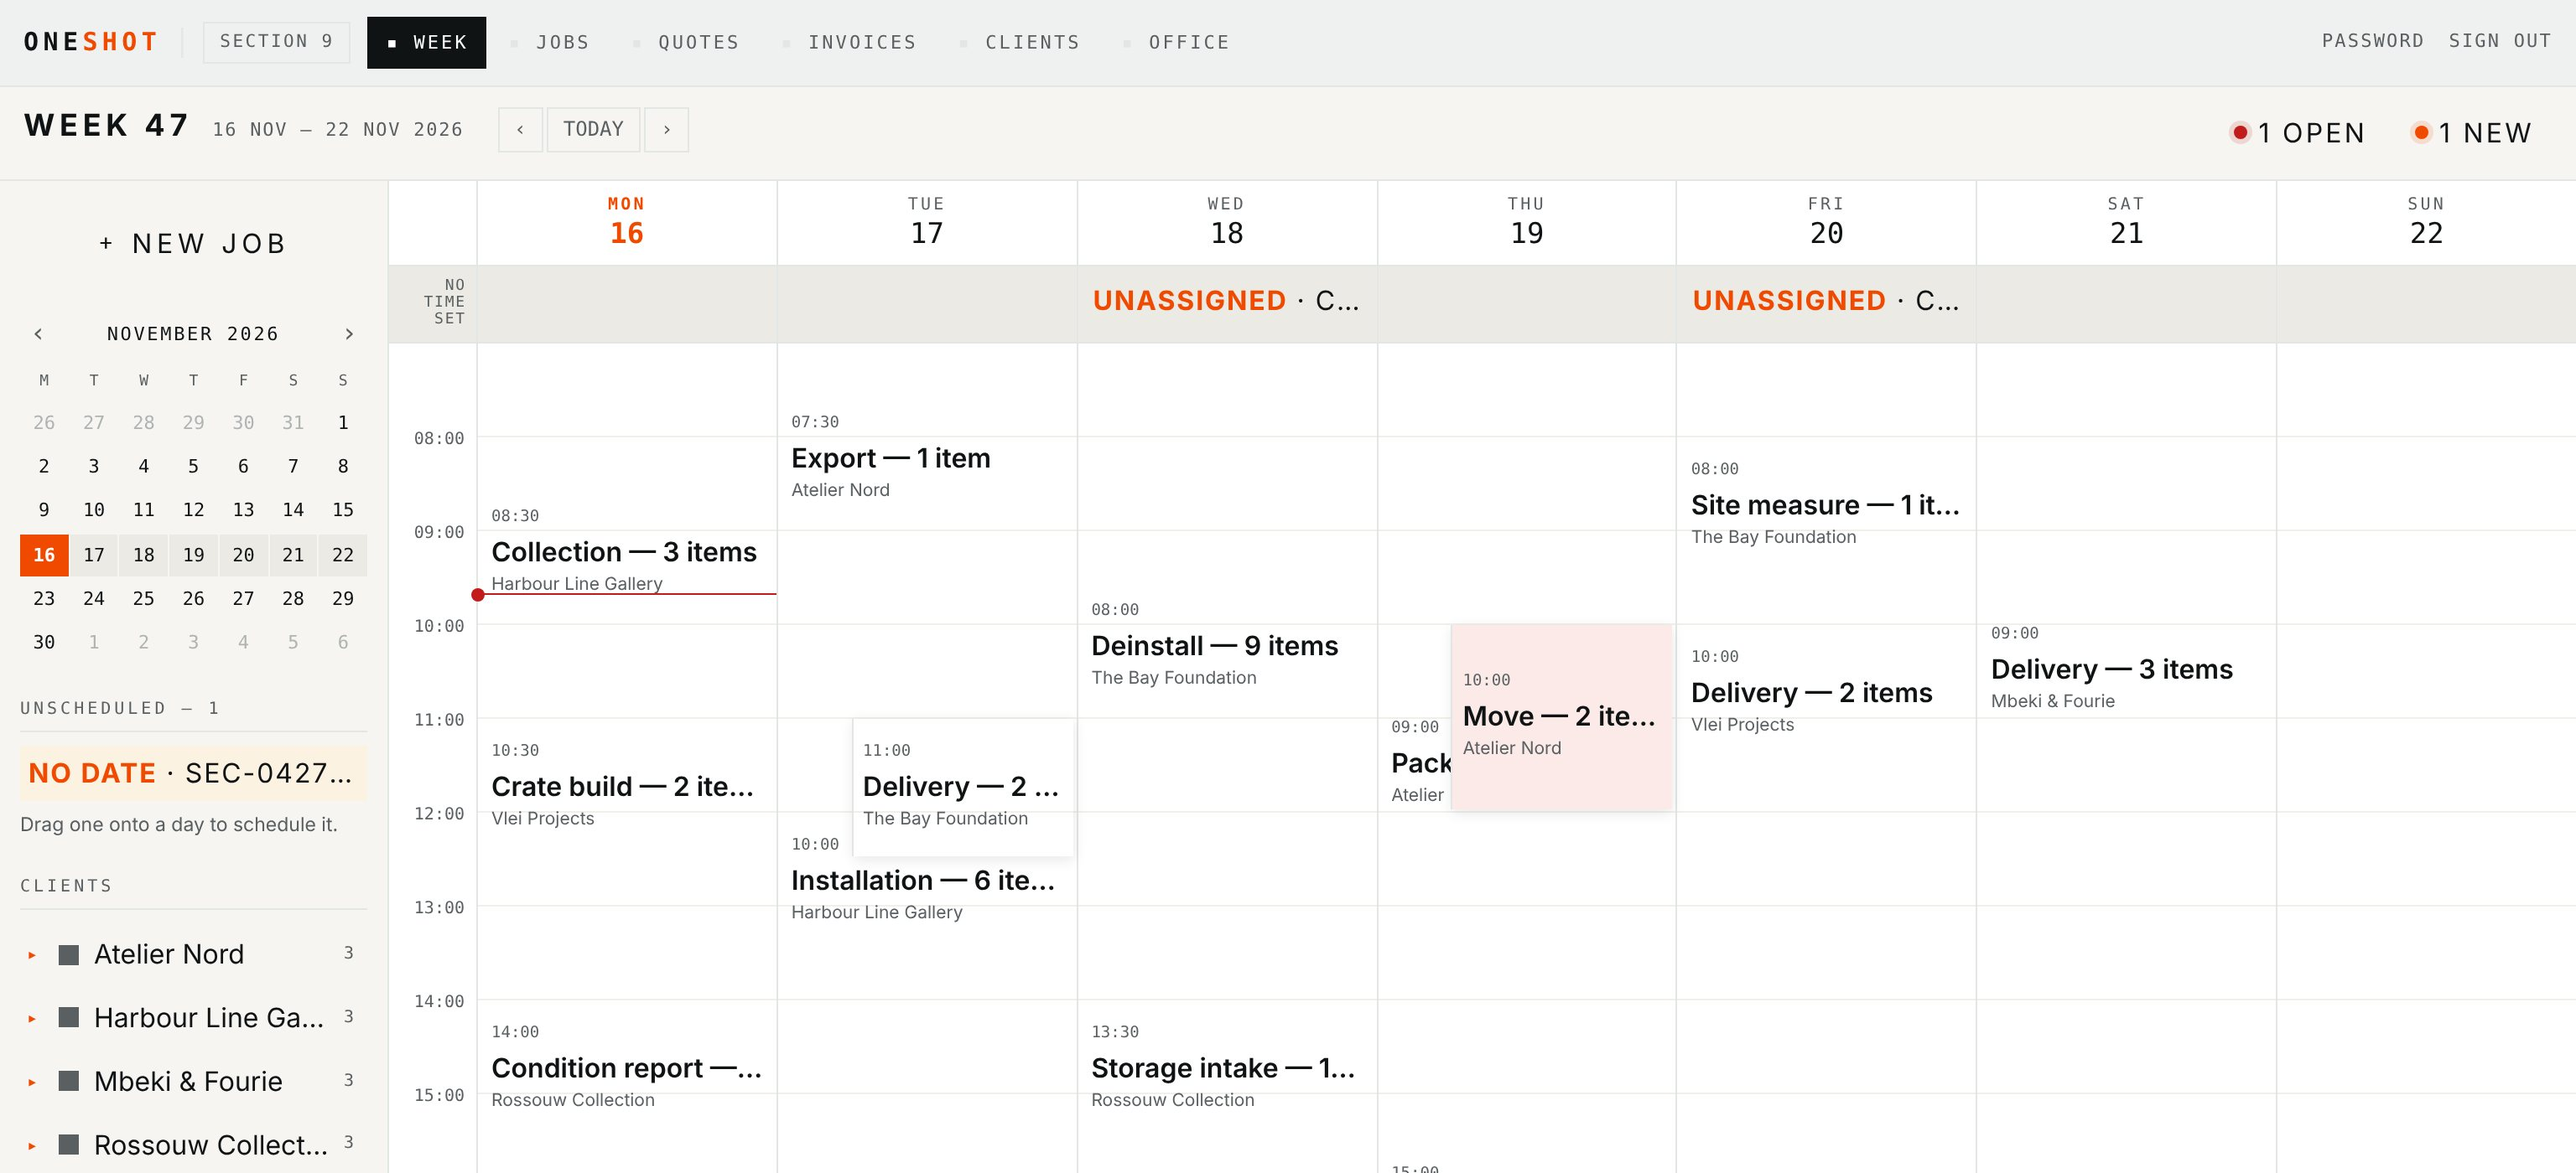
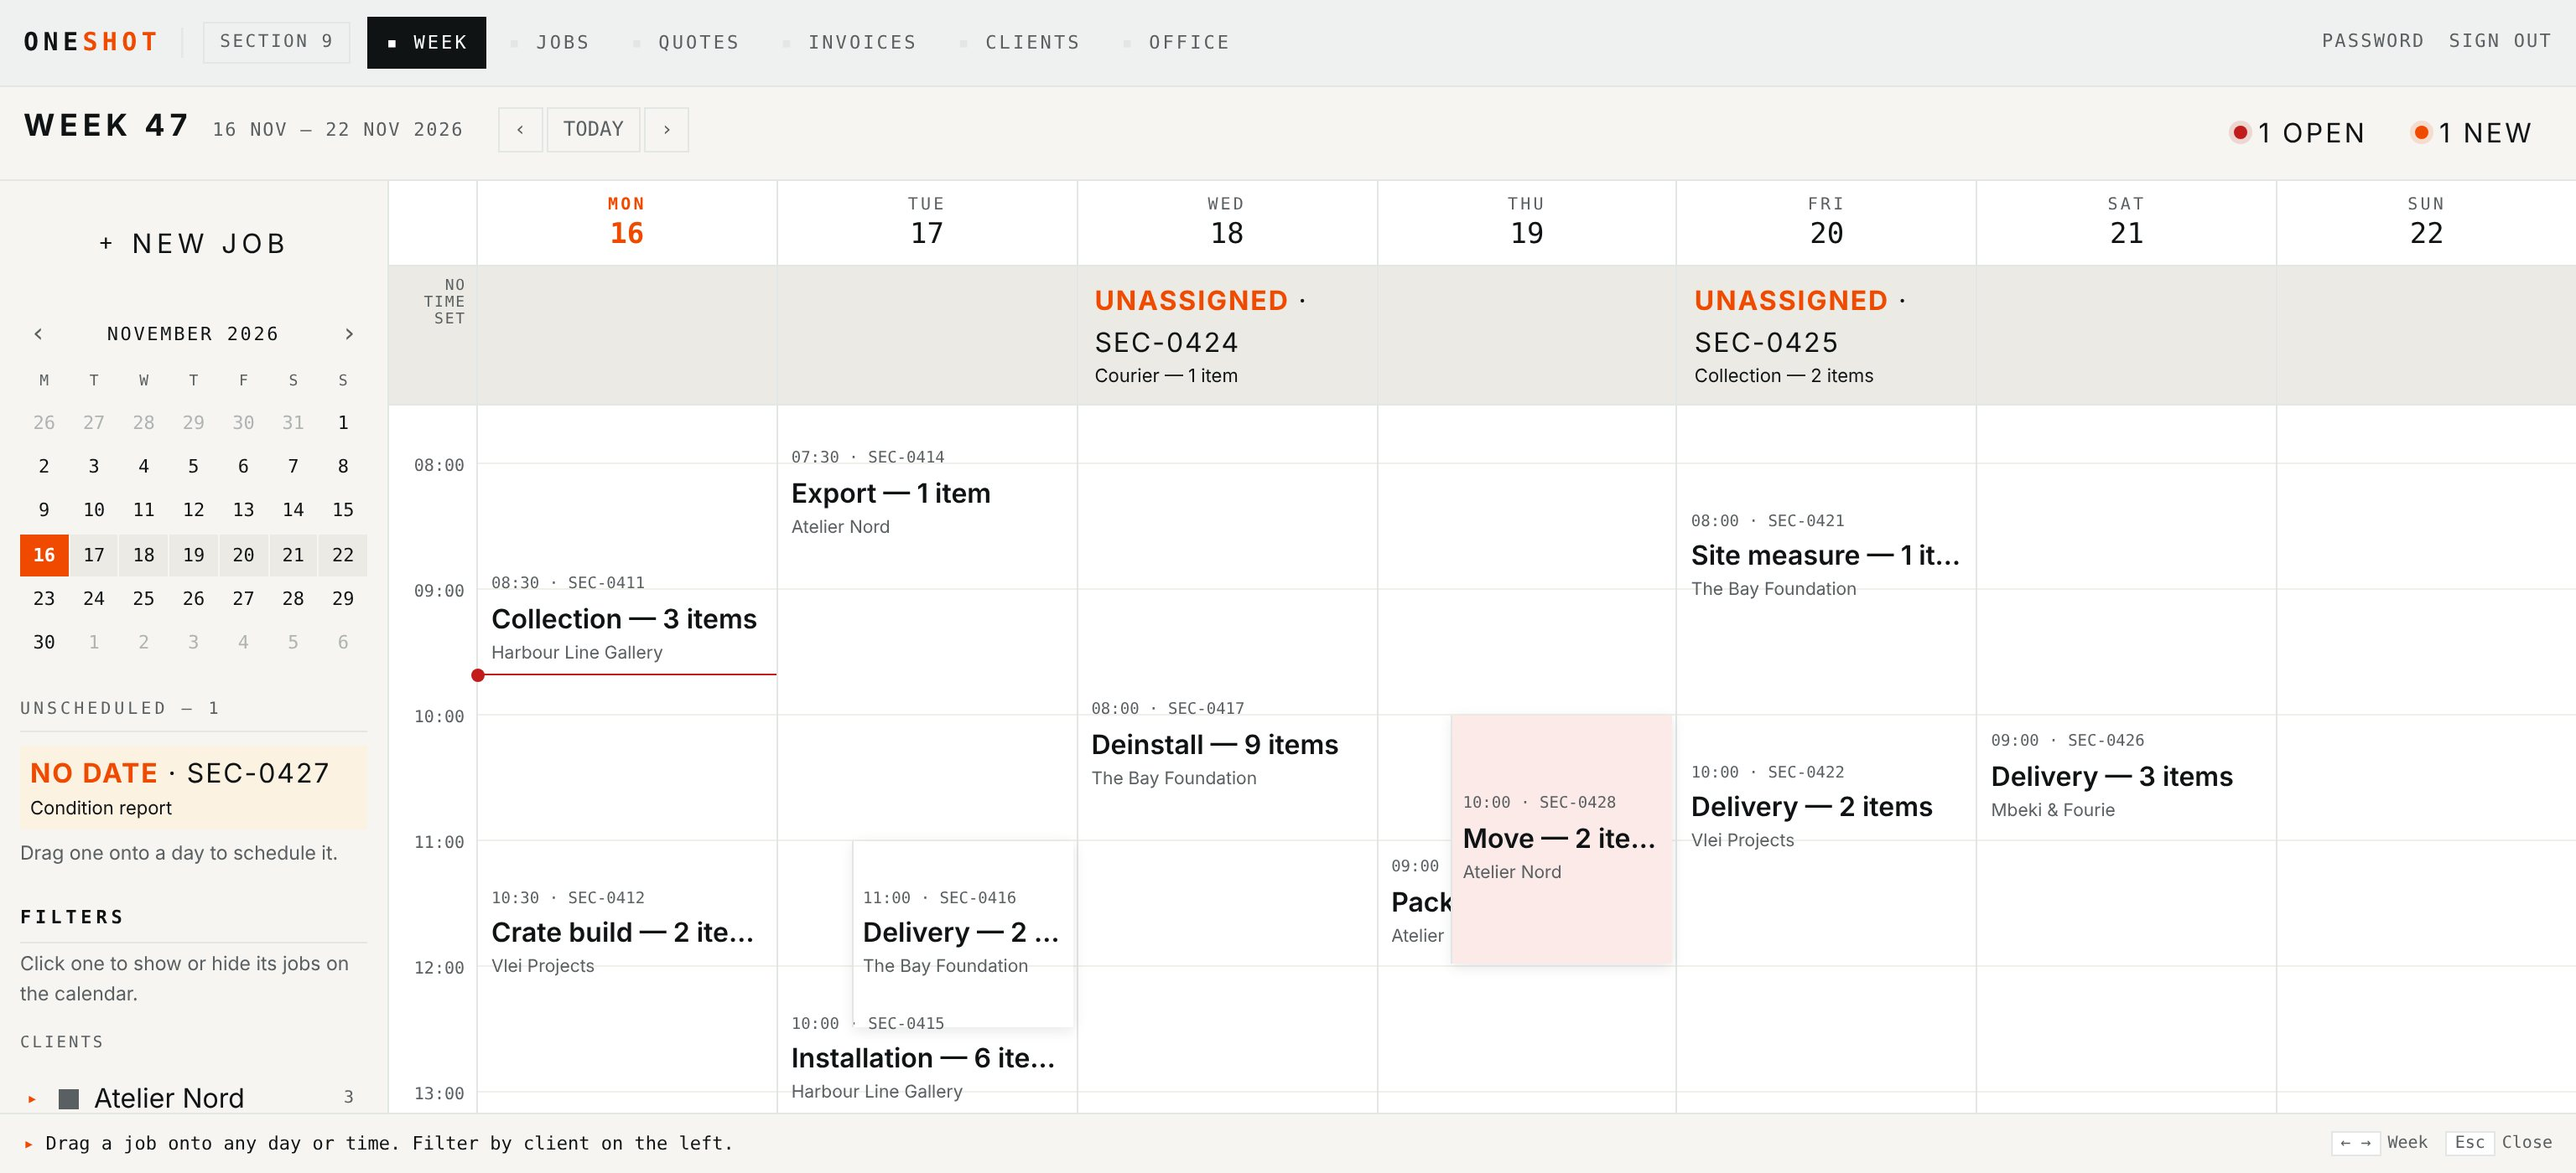
Rail: FILTERS over clients and job types, office work last; taller rows with the job reference

diff --git a/web/src/pages/Week.jsx b/web/src/pages/Week.jsx
@@ -25,7 +25,7 @@ import { dismiss as remember, keepUndismissed } from "../lib/dismissed";
 
 const DONE = ["completed", "closed", "cancelled"];
 const DAY_START = 7, DAY_END = 21;          // 07:00 to 21:00
-const HOUR = 56;                            // px per hour, matches --wk-hour
+const HOUR = 75;                            // px per hour, matches --wk-hour
 const SNAP = 15;                            // minutes
 const DEFAULT_MINUTES = 120;                // what lib/schedule assumes too
 
@@ -114,7 +114,34 @@ export function layColumns(list) {
 // and nothing else; ops get the three dots and the rail of office work. It is
 // deliberately one component - the moment Office is "the calendar, but
 // rebuilt", the two drift and only one of them gets fixed.
+// The week fills whatever is left below whatever happens to be above it -
+// the ribbon, and the notices strip when there is one. Measuring beats
+// guessing: a hard-coded 56px for the top bar is right until somebody adds a
+// line to it, and then the grid hangs off the bottom of the screen and the
+// page scrolls the header away.
+export function useFitViewport() {
+  const el = useRef(null);
+  useEffect(() => {
+    const fit = () => {
+      if (!el.current) return;
+      const top = el.current.getBoundingClientRect().top + window.scrollY;
+      // flex-grow beats height on a flex item, so the shell has to stop
+      // growing before a height means anything to it. Without this line the
+      // box reports the height you asked for and lays out at the height of
+      // its contents, which is a confusing half-hour to debug.
+      el.current.style.flex = "0 0 auto";
+      el.current.style.height = `${Math.max(320, window.innerHeight - top)}px`;
+    };
+    fit();
+    addEventListener("resize", fit);
+    const t = setTimeout(fit, 150);        // after fonts settle
+    return () => { removeEventListener("resize", fit); clearTimeout(t); };
+  });
+  return el;
+}
+
 export default function Week({ office = false }) {
+  const shell = useFitViewport();
   const { profile, session } = useContext(Ctx);
   const nav = useNavigate();
   const isOps = profile.role === "ops";
@@ -468,7 +495,7 @@ export default function Week({ office = false }) {
   const list = (flag === "open" || flag === "new") ? noticed(flag) : [];
 
   return (
-    <div className="wk">
+    <div className="wk" ref={shell}>
       <div className="wk-bar">
         <button className="wk-railtog" onClick={() => setRailOpen(!railOpen)}>▪ FILTERS</button>
         <h1 className="wk-h1">WEEK {weekNo}</h1>
@@ -530,7 +557,8 @@ export default function Week({ office = false }) {
                   <button key={j.id} className={`wk-chip s-${stateOf(j, todayISO)}`}
                     onPointerDown={(e) => startLift(e, j)}
                     onPointerUp={() => { if (lift.current && !lift.current.moved) openPeek(j); }}>
-                    <span className="u">NO DATE</span> · {j.ref} {titleOf(j)}
+                    <span className="u">NO DATE</span> · {j.ref}
+                    <span className="what">{titleOf(j)}</span>
                   </button>
                 ))}
               </div>
@@ -538,7 +566,12 @@ export default function Week({ office = false }) {
             </>
           )}
 
-          <h2>Clients</h2>
+          <h2 className="wk-h2big">Filters</h2>
+          <p className="wk-hint" style={{ margin: "-4px 0 10px" }}>
+            Click one to show or hide its jobs on the calendar.
+          </p>
+
+          <h3 className="wk-h3">Clients</h3>
           <div className="wk-filters scrolls">
             {railClients.map((c) => (
               <div key={c.id} className="wk-frowwrap">
@@ -585,18 +618,7 @@ export default function Week({ office = false }) {
             ▪ ALL / NONE
           </button>
 
-          {office && isOps && (<>
-            <h2>Office</h2>
-            <div className="wk-filters">
-              <Link className="wk-frow" to="/office/setup"><span className="cursor">▸</span><span className="name">Team &amp; setup</span></Link>
-              <Link className="wk-frow" to="/settings/clients"><span className="cursor">▸</span><span className="name">Clients</span></Link>
-              <Link className="wk-frow" to="/settings/types"><span className="cursor">▸</span><span className="name">Job types &amp; rates</span></Link>
-              <Link className="wk-frow" to="/settings/billing"><span className="cursor">▸</span><span className="name">Billing &amp; letterhead</span></Link>
-              <Link className="wk-frow" to="/statements"><span className="cursor">▸</span><span className="name">Statements</span></Link>
-            </div>
-          </>)}
-
-          <h2>Job types</h2>
+          <h3 className="wk-h3">Job types</h3>
           <div className="wk-filters">
             {[["scheduled", "Scheduled"], ["open", "Open — needs a decision"],
               ["new", "New — not confirmed"], ["done", "Finished"]].map(([k, label]) => (
@@ -608,6 +630,20 @@ export default function Week({ office = false }) {
               </button>
             ))}
           </div>
+
+          {/* Not a filter, so it does not sit among them. */}
+          {office && isOps && (
+            <div className="wk-officeblock">
+              <h2 className="wk-h2big">Office</h2>
+              <div className="wk-filters">
+                <Link className="wk-frow" to="/office/setup"><span className="cursor">▸</span><span className="name">Team &amp; setup</span></Link>
+                <Link className="wk-frow" to="/settings/clients"><span className="cursor">▸</span><span className="name">Clients</span></Link>
+                <Link className="wk-frow" to="/settings/types"><span className="cursor">▸</span><span className="name">Job types &amp; rates</span></Link>
+                <Link className="wk-frow" to="/settings/billing"><span className="cursor">▸</span><span className="name">Billing &amp; letterhead</span></Link>
+                <Link className="wk-frow" to="/statements"><span className="cursor">▸</span><span className="name">Statements</span></Link>
+              </div>
+            </div>
+          )}
         </aside>
 
         <main className="wk-week">
@@ -634,7 +670,8 @@ export default function Week({ office = false }) {
                   <button key={j.id} className={`wk-chip s-${stateOf(j, todayISO)}`}
                     onPointerDown={(e) => startLift(e, j)}
                     onPointerUp={() => { if (lift.current && !lift.current.moved) openPeek(j); }}>
-                    <span className="u">UNASSIGNED</span> · {titleOf(j)}
+                    <span className="u">UNASSIGNED</span> · {j.ref}
+                    <span className="what">{titleOf(j)}</span>
                   </button>
                 ))}
               </div>
@@ -685,7 +722,9 @@ export default function Week({ office = false }) {
                           }}
                           onPointerDown={(e) => startLift(e, j)}
                           onPointerUp={() => { if (lift.current && !lift.current.moved) openPeek(j); }}>
-                          <div className="t">{win.exact ? fmt(win.start) : `${fmt(win.start)}?`}</div>
+                          <div className="t">
+                            {win.exact ? fmt(win.start) : `${fmt(win.start)}?`} · {j.ref}
+                          </div>
                           <div className="n">{titleOf(j)}</div>
                           {h > 44 &&
                             <div className="c">{clientName(clientOf(j)) ?? j.client_ref ?? j.ref}</div>}

diff --git a/web/index.html b/web/index.html
@@ -848,7 +848,7 @@
        Only the tints below are new, and each is a wash of a colour the app
        already uses. */
     :root {
-      --wk-hour: 56px;              /* must match HOUR in Week.jsx */
+      --wk-hour: 75px;              /* must match HOUR in Week.jsx */
       --wk-soft: #F6F5F2;           /* chrome: rails and bars */
       --wk-sink: #ECEAE4;           /* recessed strips inside the chrome */
       --wk-hair: #F1EFEA;           /* hour lines inside the grid */
@@ -905,6 +905,18 @@
       font-family: var(--mono); font-size: 10px; letter-spacing: .2em; color: var(--ink-soft);
       font-weight: 500; margin: 20px 0 8px; text-transform: uppercase;
     }
+    /* A group heading, so "Filters" reads as a label over the two lists under
+       it rather than as a third list of its own. Nobody knows a column of
+       client names is a filter unless something says so. */
+    .wk-rail .wk-h2big {
+      font-size: 11px; color: var(--ink); letter-spacing: .22em; font-weight: 600;
+      border-bottom: 1px solid var(--line); padding-bottom: 6px; margin-bottom: 8px;
+    }
+    .wk-rail .wk-h3 {
+      font-family: var(--mono); font-size: 9.5px; letter-spacing: .16em; color: var(--ink-soft);
+      text-transform: uppercase; font-weight: 500; margin: 14px 0 6px;
+    }
+    .wk-officeblock { margin-top: 26px; }
     .wk-hint { font-size: 11.5px; color: var(--ink-soft); margin: 6px 0 0; }
 
     /* the only filled button on the screen */
@@ -1014,7 +1026,7 @@
       font-size: 11.5px; line-height: 1.3; cursor: grab; touch-action: none;
     }
     .wk-job:hover { filter: brightness(.97); }
-    .wk-job .t { font-family: var(--mono); font-size: 9.5px; color: var(--ink-soft); }
+    .wk-job .t { font-family: var(--mono); font-size: 9.5px; color: var(--ink-soft); overflow: hidden; text-overflow: ellipsis; white-space: nowrap; }
     .wk-job .n { font-weight: 600; overflow: hidden; text-overflow: ellipsis; white-space: nowrap; }
     .wk-job .c { color: var(--ink-soft); font-size: 10.5px; overflow: hidden; text-overflow: ellipsis; white-space: nowrap; }
     .wk-job.s-open { border-left-color: var(--warn); background: var(--wk-open); }
@@ -1026,10 +1038,15 @@
     .wk-job.layered { box-shadow: -1px 0 0 var(--line), 0 2px 8px rgba(16,19,20,.10); }
 
     .wk-chip {
-      font-family: var(--mono); font-size: 9px; letter-spacing: .06em; padding: 4px 5px;
+      font-family: var(--mono); font-size: 9px; letter-spacing: .06em; padding: 4px 6px;
       border-left: 3px solid var(--ink-soft); background: var(--wk-sched); text-align: left;
-      overflow: hidden; text-overflow: ellipsis; white-space: nowrap; display: block; width: 100%;
-      cursor: grab; touch-action: none;
+      display: block; width: 100%; cursor: grab; touch-action: none; line-height: 1.35;
+    }
+    /* The job's own words, under its reference. Clipped at one line, because
+       a band of three-line chips pushes the calendar off the screen. */
+    .wk-chip .what {
+      display: block; font-family: var(--sans); font-size: 11px; letter-spacing: 0;
+      color: var(--ink); overflow: hidden; text-overflow: ellipsis; white-space: nowrap;
     }
     .wk-chip.s-open { border-left-color: var(--warn); background: var(--wk-open); }
     .wk-chip.s-new { border-left-color: var(--accent); background: var(--wk-new); }

diff --git a/web/src/pages/Dashboard.jsx b/web/src/pages/Dashboard.jsx
@@ -2,6 +2,7 @@ import React, { useContext, useEffect, useState } from "react";
 import { Link } from "react-router-dom";
 import { supabase, FUNCTIONS_URL } from "../lib/supabase";
 import { Ctx } from "../main";
+import { useFitViewport } from "./Week";
 import { JobStamp } from "./Today";
 import JobList from "./JobList";
 import { dismiss as remember, keepUndismissed } from "../lib/dismissed";
@@ -26,6 +27,7 @@ export const refsIn = (t) => [...String(t ?? "").matchAll(/JOB-\d{4}-\d+/g)].map
 
 export default function Dashboard() {
   const { profile } = useContext(Ctx);
+  const shell = useFitViewport();
   const [siteAdmin, setSiteAdmin] = useState(false);
   const [waitingCount, setWaitingCount] = useState(0);
   const [jobs, setJobs] = useState([]);
@@ -171,7 +173,7 @@ export default function Dashboard() {
   const jump = (id) => document.getElementById(id)?.scrollIntoView({ behavior: "smooth", block: "start" });
 
   return (
-    <div className="wk">
+    <div className="wk" ref={shell}>
       <div className="wk-bar">
         <h1 className="wk-h1">TEAM &amp; SETUP</h1>
         <span className="wk-range">{profile.workspace ?? "Workspace"} · people, intake and every job</span>
